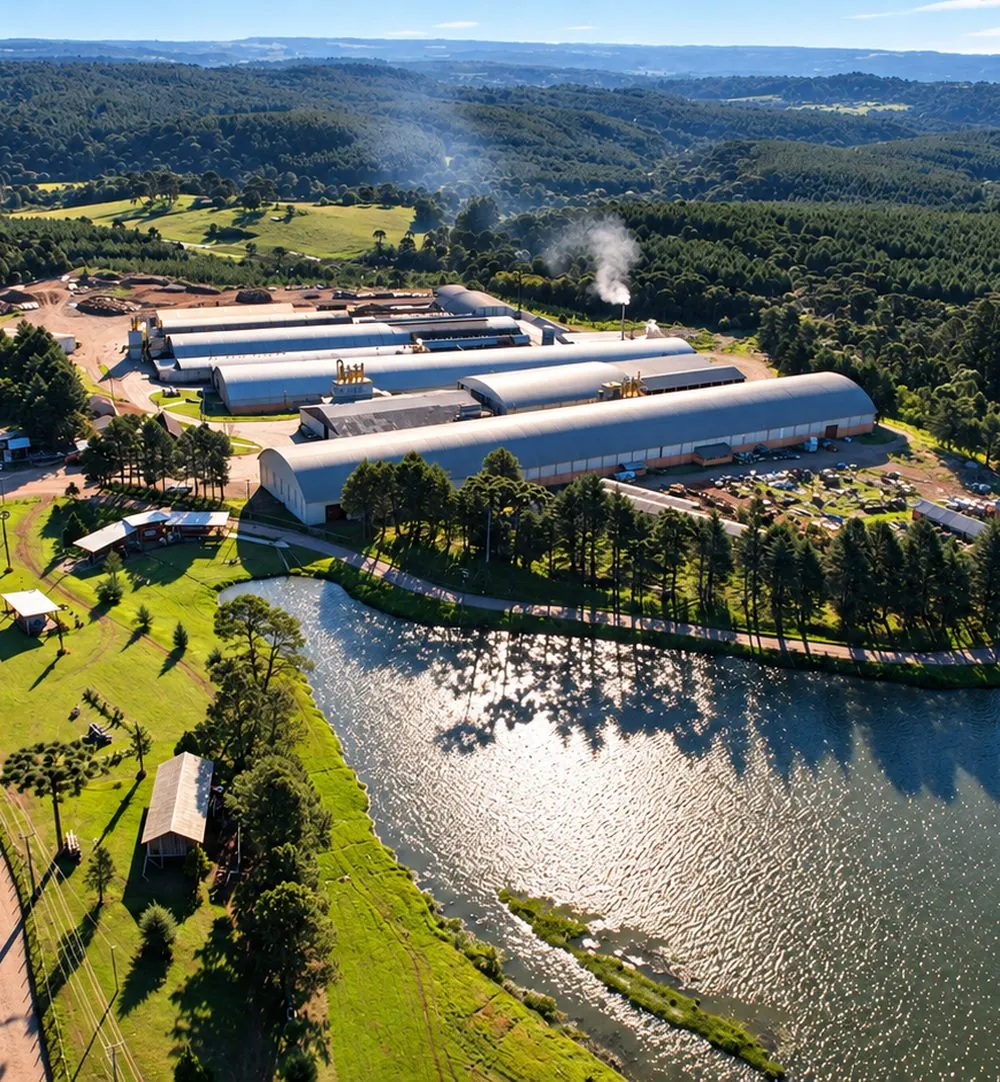
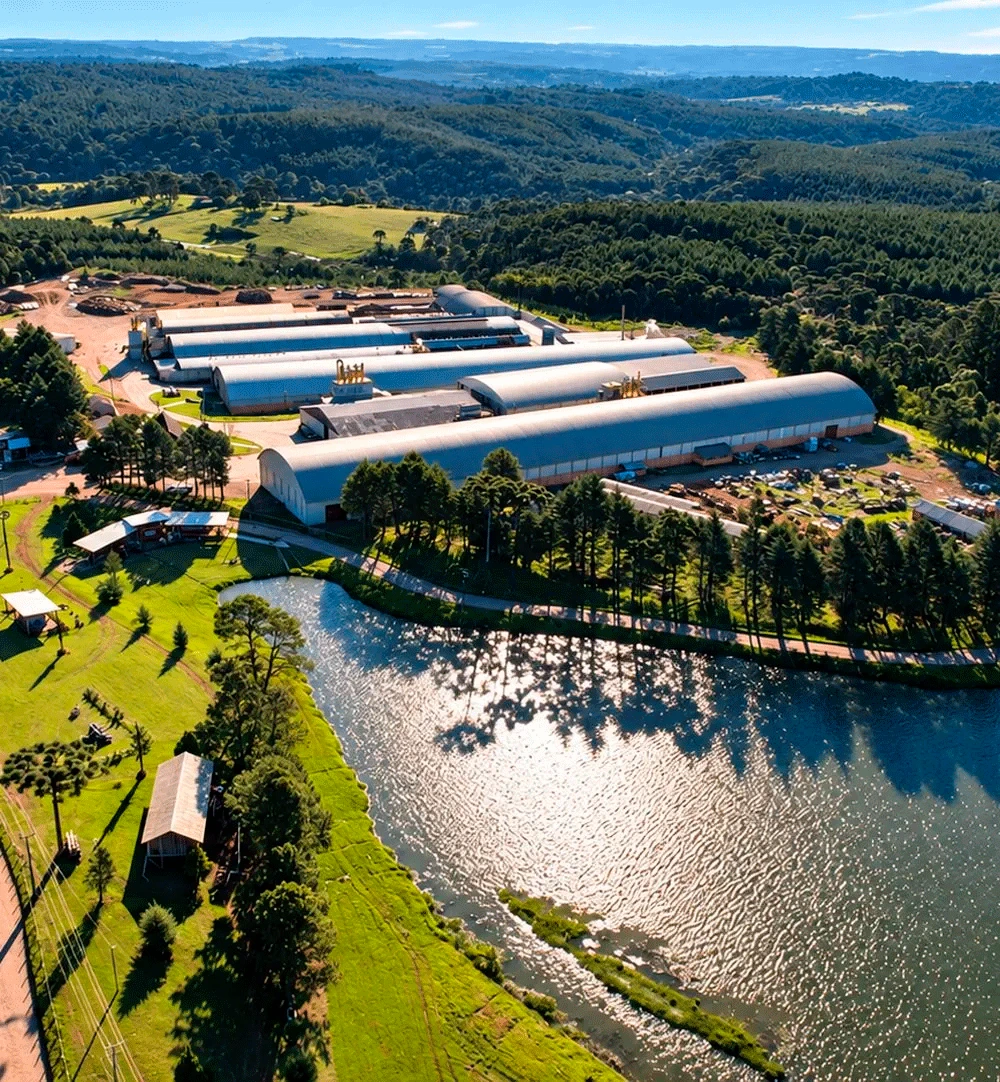
Update factory aerial photos with higher-resolution versions for hero and Lavrama card.

diff --git a/index.html b/index.html
@@ -525,7 +525,7 @@ body.is-careers main{display:none}
 <!-- ================= HERO ================= -->
 <section class="hero" aria-label="Destaque">
   <div class="ph ph--dark">
-    <img src="img/vista-aerea-da-fabrica-da-lavrama.webp" width="1024" height="576" alt="Vista aérea da fábrica da Lavrama entre florestas de pinus, com o lago em primeiro plano" fetchpriority="high" style="object-position:45% 50%">
+    <img src="img/vista-aerea-da-fabrica-da-lavrama.webp" width="1672" height="941" alt="Vista aérea da fábrica da Lavrama entre florestas de pinus, com o lago em primeiro plano" fetchpriority="high" style="object-position:45% 50%">
   </div>
   <div class="hero__scrim"></div>
   <div class="hero__copy wrap">
